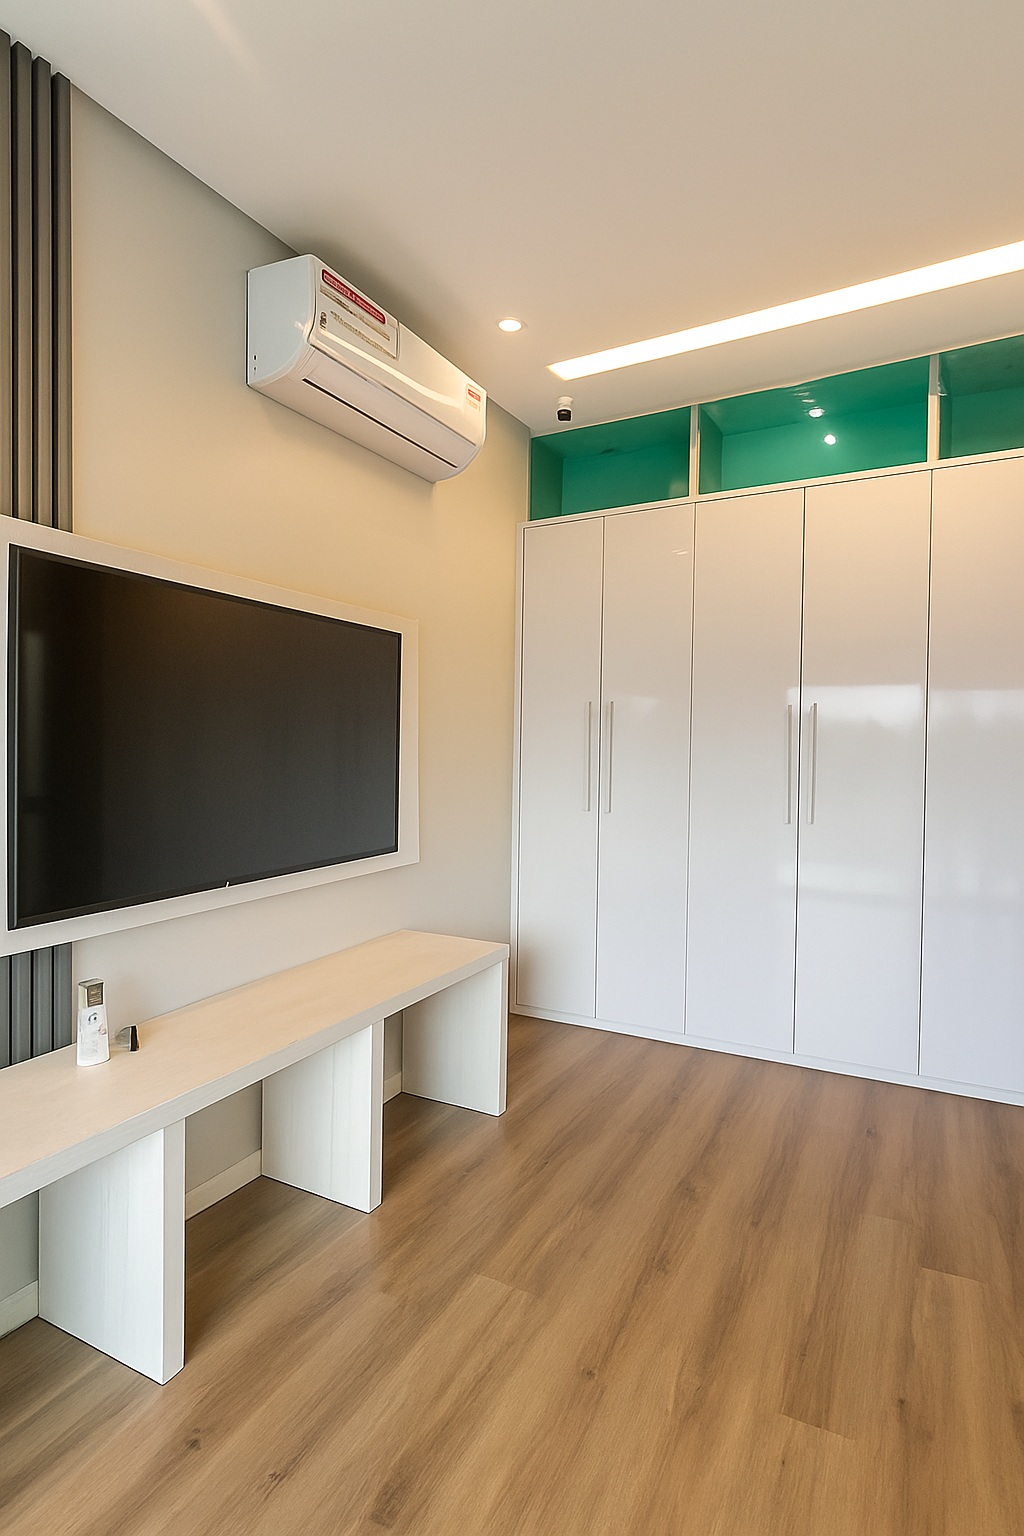
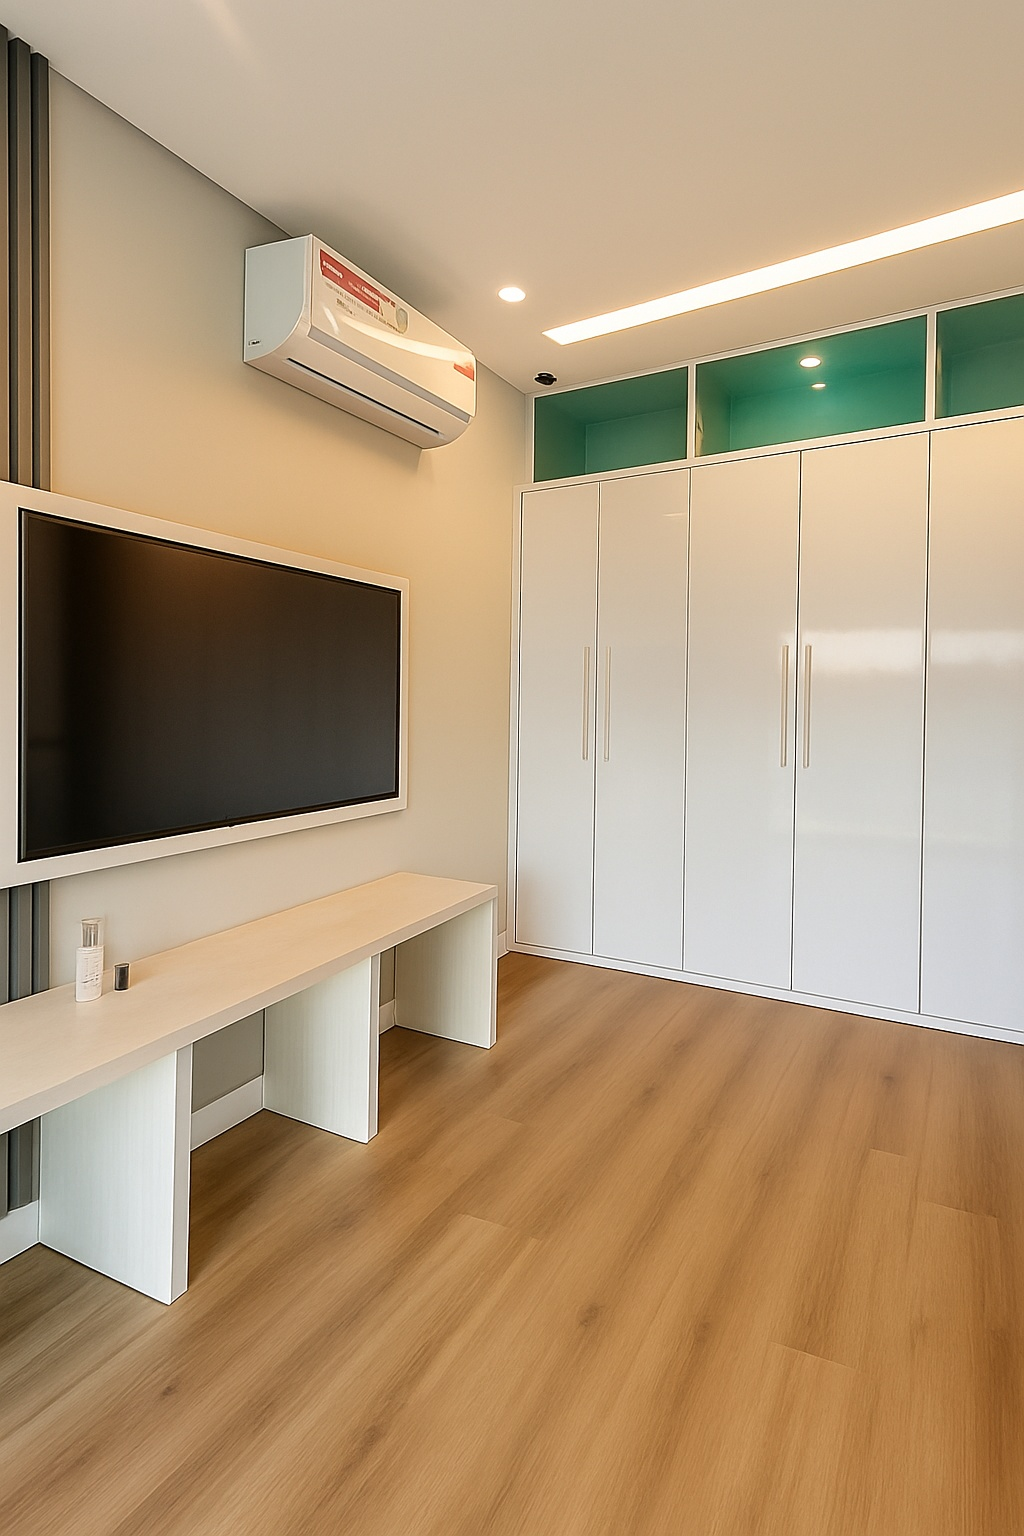
Urbanova: replace with glare-fix edits, brighten dark frames, remove photo 33, update label

diff --git a/js/listings.js b/js/listings.js
@@ -44,7 +44,7 @@ window.LISTINGS = {
     cover: 'images/listings/urbanova-paratehy/01_fachada.jpg',
     photos: [
       { src: 'images/listings/urbanova-paratehy/01_fachada.jpg',          caption: 'Fachada Principal' },
-      { src: 'images/listings/urbanova-paratehy/11_fachada_2.jpg',         caption: 'Fachada · Vista Lateral' },
+      { src: 'images/listings/urbanova-paratehy/11_fachada_2.jpg',         caption: 'Fachada · Vista Frontal 2' },
       { src: 'images/listings/urbanova-paratehy/02_hall.jpg',              caption: 'Hall de Entrada' },
       { src: 'images/listings/urbanova-paratehy/03_sala.jpg',              caption: 'Sala de Estar' },
       { src: 'images/listings/urbanova-paratehy/12_sala_2.jpg',            caption: 'Sala de Estar · Ângulo 2' },
@@ -74,7 +74,6 @@ window.LISTINGS = {
       { src: 'images/listings/urbanova-paratehy/07_escritorio.jpg',        caption: 'Escritório' },
       { src: 'images/listings/urbanova-paratehy/30_escritorio_armarios.jpg', caption: 'Escritório · Armários' },
       { src: 'images/listings/urbanova-paratehy/08_cinema.jpg',            caption: 'Sala de Cinema' },
-      { src: 'images/listings/urbanova-paratehy/33_sala_escada.jpg',       caption: 'Sala de Estar · Escada Flutuante' },
       { src: 'images/listings/urbanova-paratehy/19_transicao_piscina.jpg', caption: 'Área Externa · Transição para Piscina' }
     ],
     desc: 'Casa de alto padrão em condomínio fechado nas Colinas do Paratehy Sul. 510 m² construídos · 600 m² de terreno · 4 suítes (master 88 m² com closet e banheira dupla) · sala cinema · lareira suspensa · cozinha gourmet · piscina · biometria · cisterna 8.000L. Mobiliada · venda porteira fechada.',
